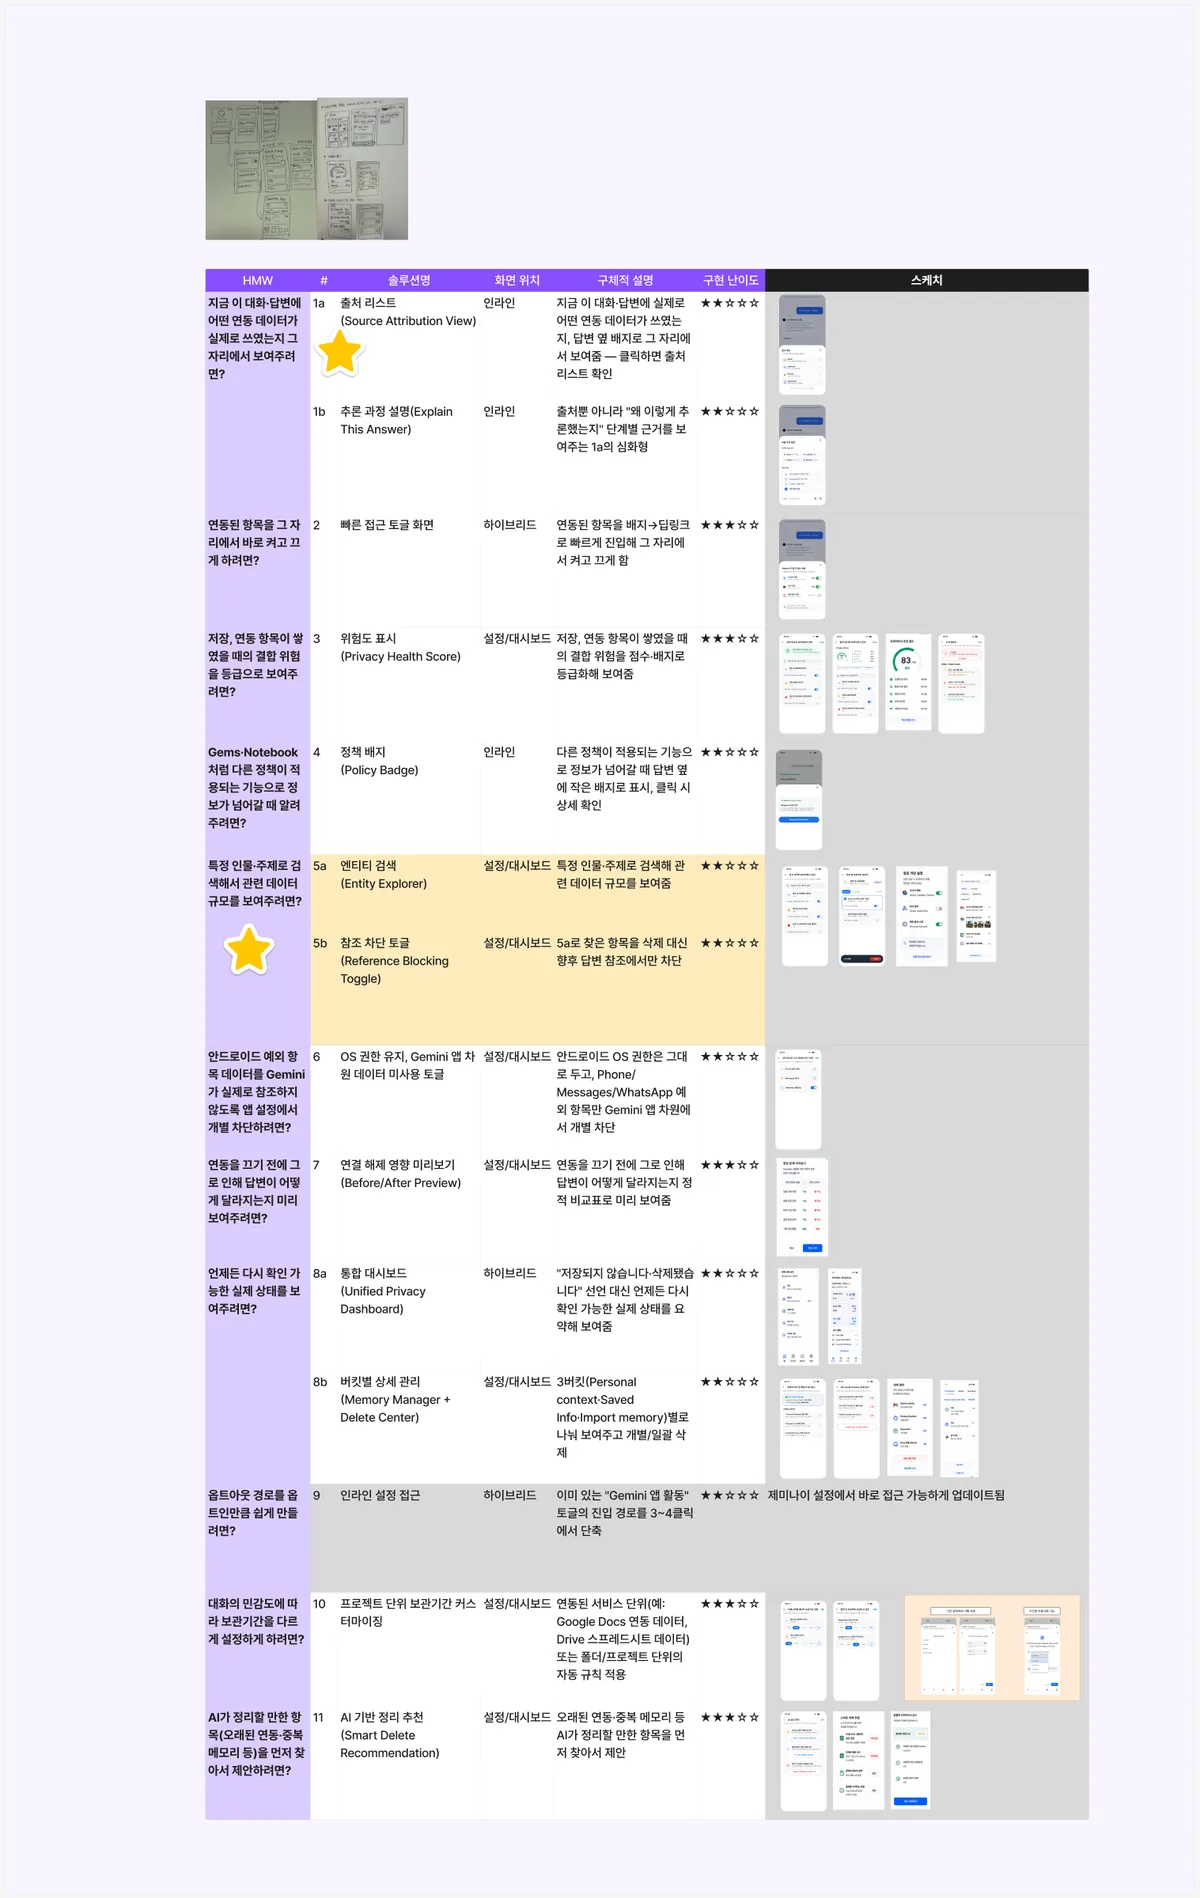
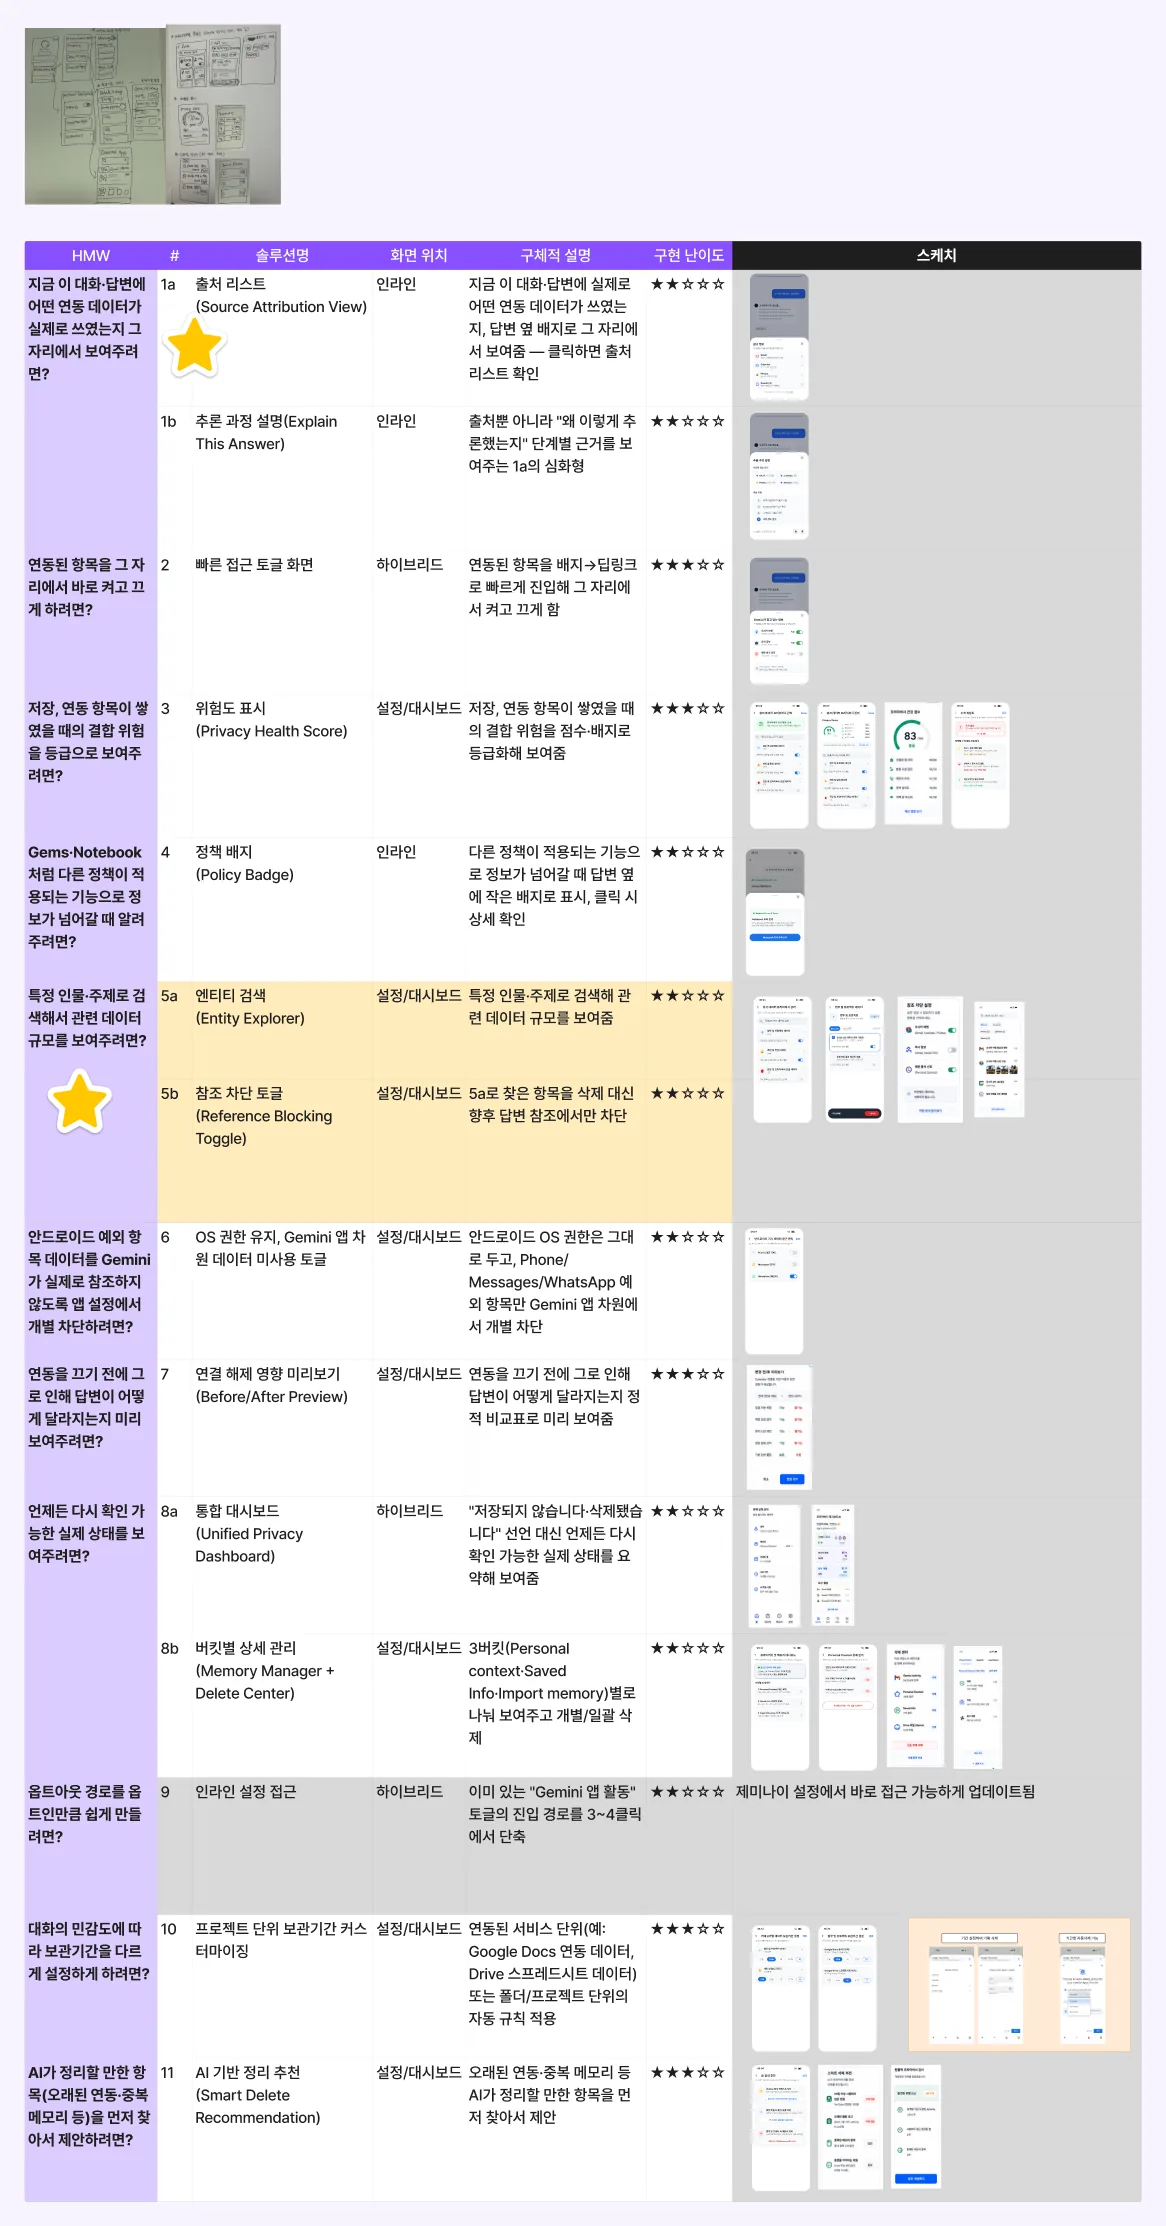
Keep tall boards compact and trim their empty margins
Cap portrait images at 600px (70vh) and crop the empty frame around the
affinity map, the sketch board and the Devsign user flow.

Claude-Session: https://claude.ai/code/session_01VXWd6RpKBiKuFLnqarEaab

diff --git a/app/globals.css b/app/globals.css
@@ -1119,6 +1119,8 @@ html::-webkit-scrollbar, body::-webkit-scrollbar { display: none; width: 0; heig
 /* Images keep their own size and shape: no letterboxing, rounded, at most the body column wide. */
 .case-media-image img { display: block; width: auto; max-width: 100%; height: auto; max-height: 80vh; border-radius: 16px; outline: 1px solid var(--line); outline-offset: -1px; }
 .case-media-full .case-media-image img { width: 100%; }
+/* Tall boards stay compact so they never take over the page. */
+.case-media-portrait .case-media-image img { max-height: min(600px, 70vh); }
 /* Phone screens: corners are cut to the device radius in the file; the outline follows it. */
 .case-media-phone .case-media-image img { max-width: min(100%, 320px); border-radius: 13.3% / 6.2%; }
 .case-media-logo .case-media-image { display: grid; place-items: center; padding: clamp(40px, 6vw, 72px); border-radius: 16px; background: var(--color-fill); }
